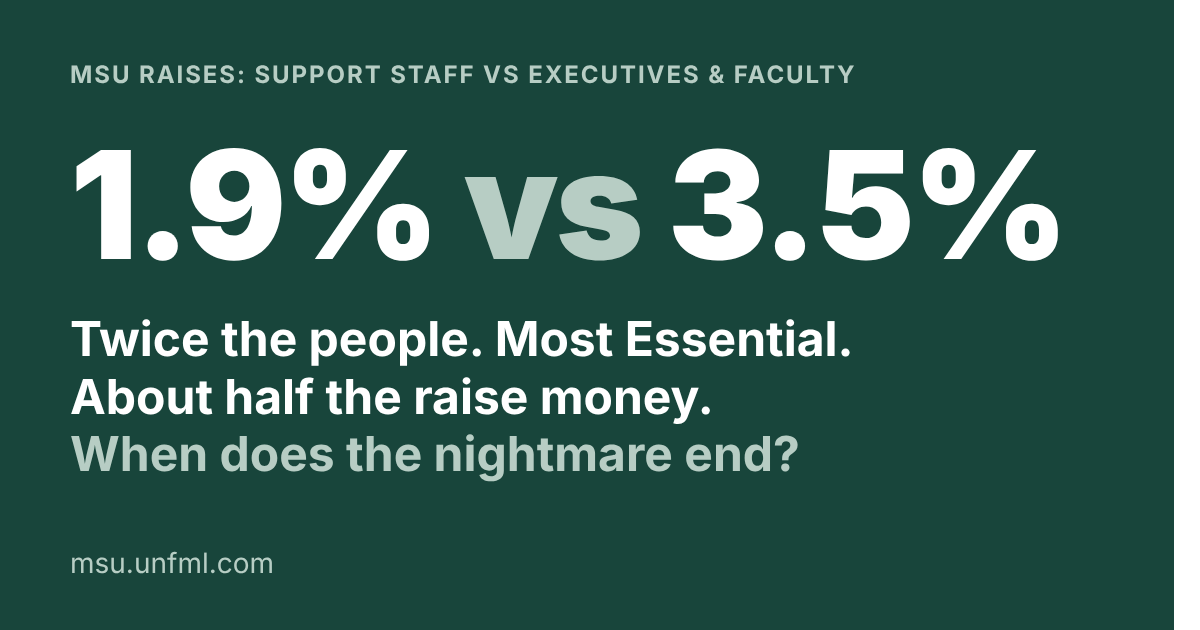
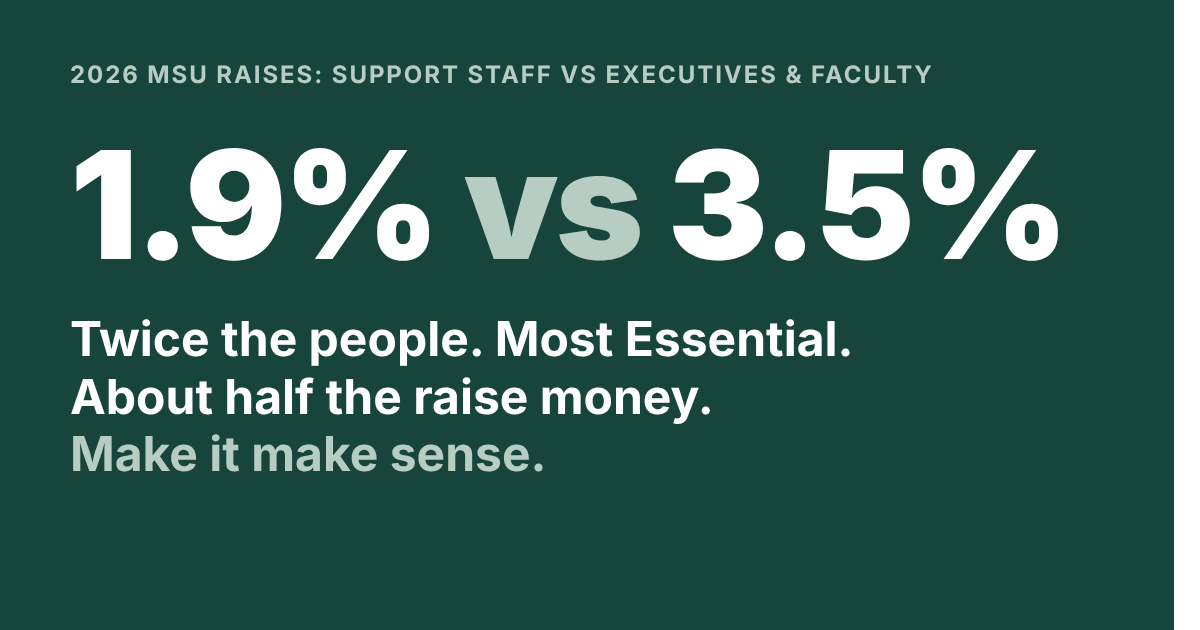
Add files via upload

Changed region(s): [[0.0617, 0.0905, 0.7708, 0.1508], [0.0617, 0.6937, 0.6783, 0.7841], [0.0617, 0.8746, 0.2467, 0.9349]]

diff --git a/index.html b/index.html
@@ -19,6 +19,9 @@
 <meta property="og:image:height" content="630">
 <meta property="og:image:alt" content="1.9% vs 3.5%: twice the people, about half the raise money">
 <meta name="twitter:image" content="https://msu.unfml.com/assets/og-image.png">
+<link rel="icon" type="image/svg+xml" href="assets/favicon.svg">
+<link rel="icon" type="image/png" sizes="32x32" href="assets/favicon-32.png">
+<link rel="apple-touch-icon" href="assets/apple-touch-icon.png">
 <link rel="stylesheet" href="assets/style.css">
 </head>
 <body>
@@ -29,7 +32,7 @@
 </div></div>
 
 <nav class="nav" aria-label="Site"><div class="wrap">
-    <a class="brand" href="index.html">UNFML MSU</a>
+    <a class="brand" href="index.html" aria-label="UNFML, home"><img src="assets/unfml-logo.svg" alt="UNFML" width="162" height="28"></a>
     <a class="l" href="index.html" aria-current="page">Home</a>
     <a class="l" href="numbers.html">The numbers</a>
     <a class="l" href="salaries.html">Salary list</a>

diff --git a/numbers.html b/numbers.html
@@ -19,6 +19,9 @@
 <meta property="og:image:height" content="630">
 <meta property="og:image:alt" content="1.9% vs 3.5%: twice the people, about half the raise money">
 <meta name="twitter:image" content="https://msu.unfml.com/assets/og-image.png">
+<link rel="icon" type="image/svg+xml" href="assets/favicon.svg">
+<link rel="icon" type="image/png" sizes="32x32" href="assets/favicon-32.png">
+<link rel="apple-touch-icon" href="assets/apple-touch-icon.png">
 <link rel="stylesheet" href="assets/style.css">
 </head>
 <body>
@@ -29,7 +32,7 @@
 </div></div>
 
 <nav class="nav" aria-label="Site"><div class="wrap">
-    <a class="brand" href="index.html">UNFML MSU</a>
+    <a class="brand" href="index.html" aria-label="UNFML, home"><img src="assets/unfml-logo.svg" alt="UNFML" width="162" height="28"></a>
     <a class="l" href="index.html">Home</a>
     <a class="l" href="numbers.html" aria-current="page">The numbers</a>
     <a class="l" href="salaries.html">Salary list</a>

diff --git a/salaries.html b/salaries.html
@@ -19,6 +19,9 @@
 <meta property="og:image:height" content="630">
 <meta property="og:image:alt" content="1.9% vs 3.5%: twice the people, about half the raise money">
 <meta name="twitter:image" content="https://msu.unfml.com/assets/og-image.png">
+<link rel="icon" type="image/svg+xml" href="assets/favicon.svg">
+<link rel="icon" type="image/png" sizes="32x32" href="assets/favicon-32.png">
+<link rel="apple-touch-icon" href="assets/apple-touch-icon.png">
 <link rel="stylesheet" href="assets/style.css">
 </head>
 <body>
@@ -29,7 +32,7 @@
 </div></div>
 
 <nav class="nav" aria-label="Site"><div class="wrap">
-    <a class="brand" href="index.html">UNFML MSU</a>
+    <a class="brand" href="index.html" aria-label="UNFML, home"><img src="assets/unfml-logo.svg" alt="UNFML" width="162" height="28"></a>
     <a class="l" href="index.html">Home</a>
     <a class="l" href="numbers.html">The numbers</a>
     <a class="l" href="salaries.html" aria-current="page">Salary list</a>

diff --git a/method.html b/method.html
@@ -19,6 +19,9 @@
 <meta property="og:image:height" content="630">
 <meta property="og:image:alt" content="1.9% vs 3.5%: twice the people, about half the raise money">
 <meta name="twitter:image" content="https://msu.unfml.com/assets/og-image.png">
+<link rel="icon" type="image/svg+xml" href="assets/favicon.svg">
+<link rel="icon" type="image/png" sizes="32x32" href="assets/favicon-32.png">
+<link rel="apple-touch-icon" href="assets/apple-touch-icon.png">
 <link rel="stylesheet" href="assets/style.css">
 </head>
 <body>
@@ -29,7 +32,7 @@
 </div></div>
 
 <nav class="nav" aria-label="Site"><div class="wrap">
-    <a class="brand" href="index.html">UNFML MSU</a>
+    <a class="brand" href="index.html" aria-label="UNFML, home"><img src="assets/unfml-logo.svg" alt="UNFML" width="162" height="28"></a>
     <a class="l" href="index.html">Home</a>
     <a class="l" href="numbers.html">The numbers</a>
     <a class="l" href="salaries.html">Salary list</a>

diff --git a/voices.html b/voices.html
@@ -19,6 +19,9 @@
 <meta property="og:image:height" content="630">
 <meta property="og:image:alt" content="1.9% vs 3.5%: twice the people, about half the raise money">
 <meta name="twitter:image" content="https://msu.unfml.com/assets/og-image.png">
+<link rel="icon" type="image/svg+xml" href="assets/favicon.svg">
+<link rel="icon" type="image/png" sizes="32x32" href="assets/favicon-32.png">
+<link rel="apple-touch-icon" href="assets/apple-touch-icon.png">
 <link rel="stylesheet" href="assets/style.css">
 </head>
 <body>
@@ -29,7 +32,7 @@
 </div></div>
 
 <nav class="nav" aria-label="Site"><div class="wrap">
-    <a class="brand" href="index.html">UNFML MSU</a>
+    <a class="brand" href="index.html" aria-label="UNFML, home"><img src="assets/unfml-logo.svg" alt="UNFML" width="162" height="28"></a>
     <a class="l" href="index.html">Home</a>
     <a class="l" href="numbers.html">The numbers</a>
     <a class="l" href="salaries.html">Salary list</a>

diff --git a/assets/style.css b/assets/style.css
@@ -198,3 +198,5 @@ footer p{max-width:70ch;margin:0 0 8px}
 /* ---- method page ---- */
 .method h2{margin-top:0}
 .method a{color:var(--green);font-weight:600}
+
+.nav .brand{display:flex;align-items:center;gap:10px}.nav .brand img{display:block;height:28px;width:auto}.nav .brand span{font-weight:900;font-size:19px;color:var(--green);letter-spacing:.02em}@media(max-width:700px){.nav .brand img{height:24px}}
